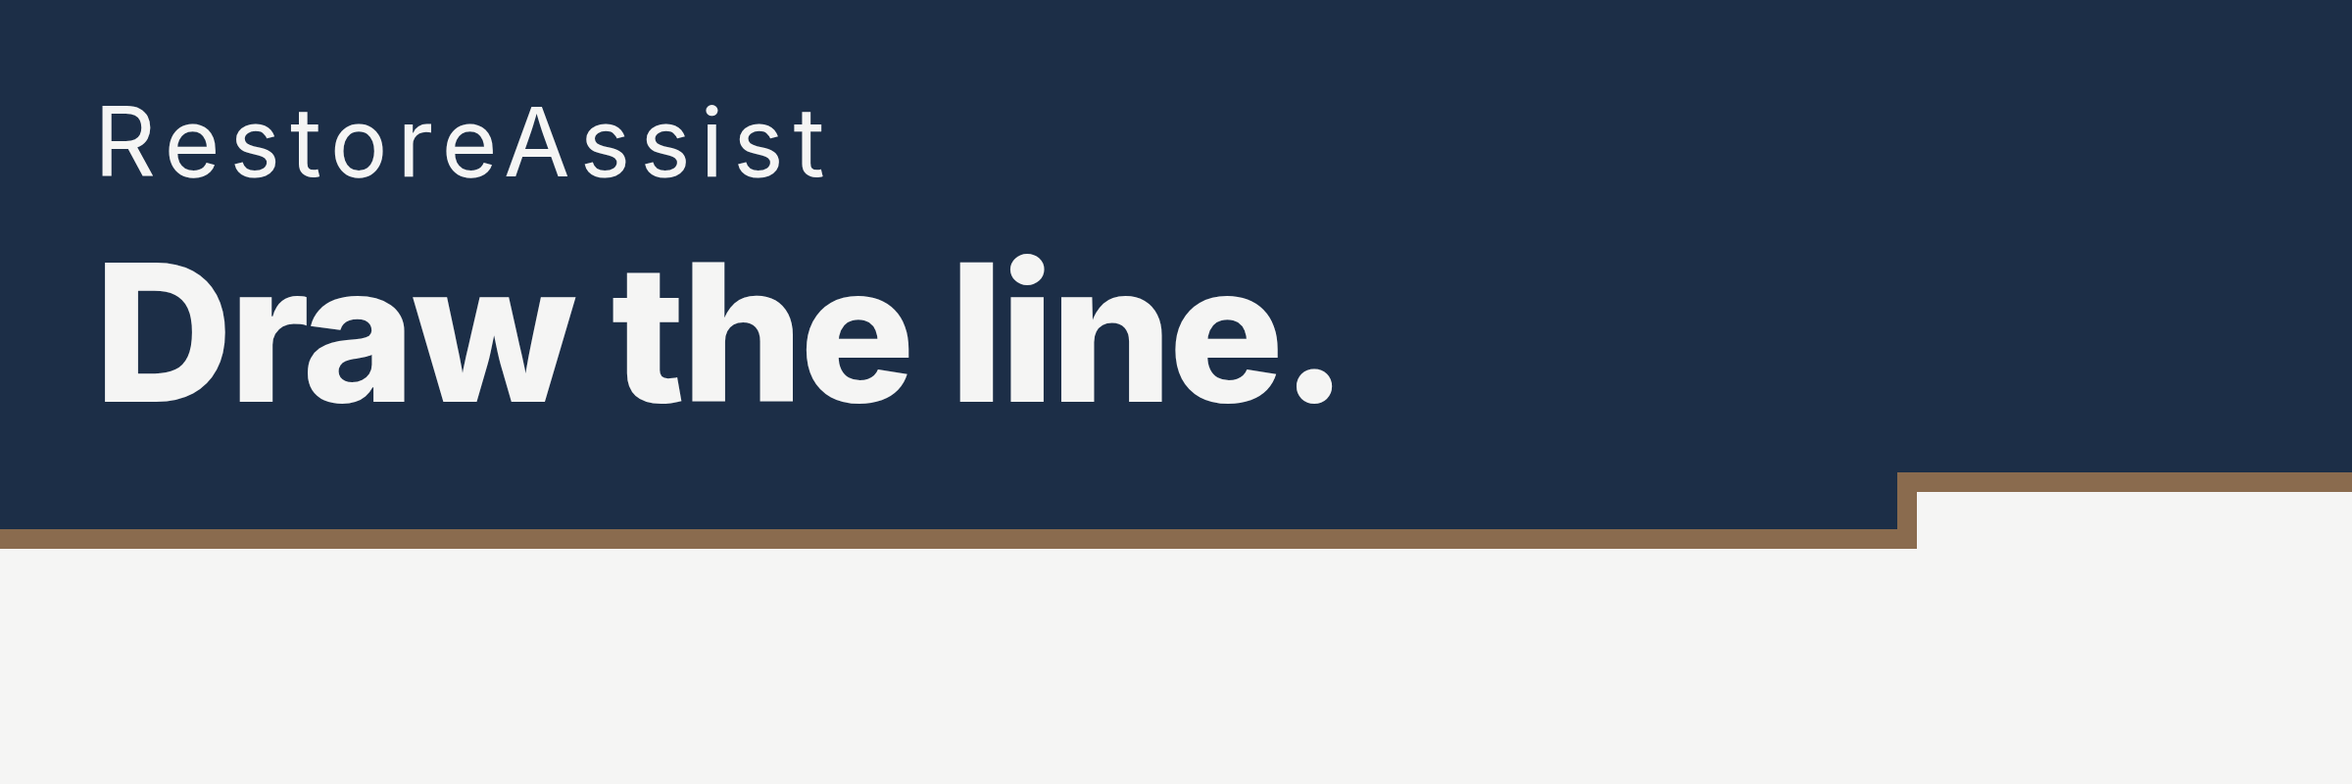
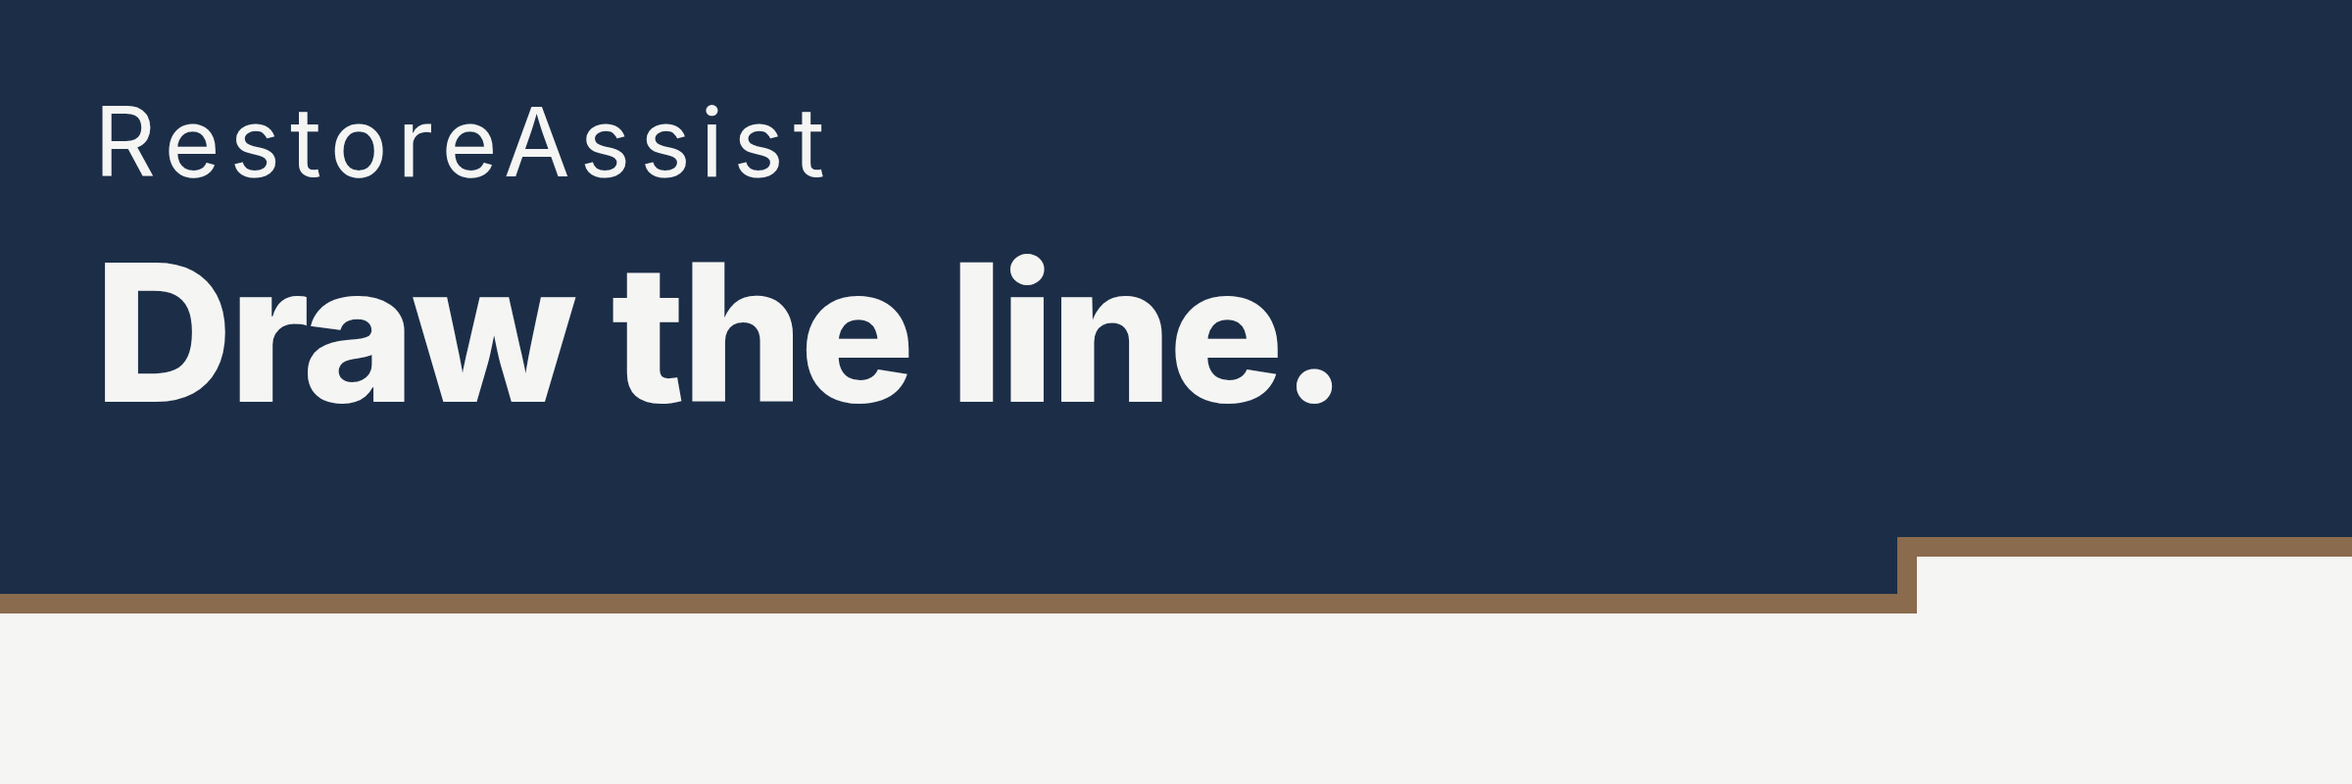
fix(design): size the sweep dry field to its content when it is empty
Found by looking at the rendered funnel PNGs after the lock, not by reading
the template.

The sweep signature drops its locked 59.4% height proportion and sizes the dry
field to its content on portrait boxes, because the proportion was derived on a
1200x627 landscape board and carrying it onto a 3:4 or 9:16 canvas strands the
tape in empty space. But the test was orientation, and the condition that
actually matters is whether the dry field holds anything. The email header
carries no support line and no CTA, so a landscape box with an empty bottom
block kept a proportion derived from a filled one.

On the email header itself the gain is small and worth stating plainly: the
clamp had already pushed the line most of the way, so this moves it 270 -> 303
and the dry field 130px -> 97px. The case the rule guards is a taller landscape
box with an empty bottom — 1600x900 with no support or CTA leaves ~40% of the
canvas holding nothing, which is the stated reason CARSI's `ma` board was
rejected: the lower 45% read as unfinished rather than as intentional negative
space, because nothing weighted was holding the void open.

One condition changes, in the template and in all seven funnel boards that
carry a copy of it. It cannot affect a board whose bottom block has content,
and that is proven rather than asserted: re-rendering all seven formats at
their true logical dimensions changed exactly one PNG, and the locked
[…]

Changed region(s): [[0.0, 0.5938, 1.0, 0.7812]]

diff --git a/docs/marketing-agency/design-runs/ra-job-close-system-2026-08-29-01/funnel/email-header.html b/docs/marketing-agency/design-runs/ra-job-close-system-2026-08-29-01/funnel/email-header.html
@@ -107,6 +107,18 @@ body{background:var(--n50);color:var(--primary);font-family:'RAInter',system-ui,
       to its content, because the locked proportion is a landscape one and
       carrying it onto a 3:4 or 9:16 canvas strands the tape in empty space.
 
+      An EMPTY dry field is the same failure as a portrait one, and the
+      orientation test alone missed it. The 2400x800 email header carries no
+      support line and no CTA, so it took the locked 59.4% and left 40% of the
+      canvas as a light void holding nothing — which is precisely why the CARSI
+      `ma` board was rejected ("the lower 45% reads as unfinished rather than as
+      intentional negative space; ma needs a weighted element holding the void
+      open, and there was none", taste/carsi.md). The condition that matters is
+      whether the dry field has content, not whether the box is portrait, so the
+      content-sized path now also applies whenever the bottom block is empty:
+      the line drops to one clearance above the safe area and the dry field
+      becomes a base rather than a half-canvas void.
+
    4. THE STEP FLATTENS. Below a 24px step depth the notch reads as a rendering
       artefact rather than as a taped mark, so the step is dropped and the line
       runs straight. 24px is 7.2% of 333px, so this is every box under ~333px
@@ -200,7 +212,7 @@ body{background:var(--n50);color:var(--primary);font-family:'RAInter',system-ui,
     // one clearance above the bottom block, the wet field takes the rest, and
     // the composition stays the one that was locked — hook top-left in the wet,
     // tape low, support and CTA in the dry.
-    var lineY = H > W ? maxY : Math.round(H * 0.594);
+    var lineY = (H > W || !botLive) ? maxY : Math.round(H * 0.594);
     lineY = Math.round(Math.min(Math.max(lineY, minY), maxY));
 
     // 4 — the step, and when it flattens.

diff --git a/docs/marketing-agency/design-runs/ra-job-close-system-2026-08-29-01/funnel/landing-hero.html b/docs/marketing-agency/design-runs/ra-job-close-system-2026-08-29-01/funnel/landing-hero.html
@@ -107,6 +107,18 @@ body{background:var(--n50);color:var(--primary);font-family:'RAInter',system-ui,
       to its content, because the locked proportion is a landscape one and
       carrying it onto a 3:4 or 9:16 canvas strands the tape in empty space.
 
+      An EMPTY dry field is the same failure as a portrait one, and the
+      orientation test alone missed it. The 2400x800 email header carries no
+      support line and no CTA, so it took the locked 59.4% and left 40% of the
+      canvas as a light void holding nothing — which is precisely why the CARSI
+      `ma` board was rejected ("the lower 45% reads as unfinished rather than as
+      intentional negative space; ma needs a weighted element holding the void
+      open, and there was none", taste/carsi.md). The condition that matters is
+      whether the dry field has content, not whether the box is portrait, so the
+      content-sized path now also applies whenever the bottom block is empty:
+      the line drops to one clearance above the safe area and the dry field
+      becomes a base rather than a half-canvas void.
+
    4. THE STEP FLATTENS. Below a 24px step depth the notch reads as a rendering
       artefact rather than as a taped mark, so the step is dropped and the line
       runs straight. 24px is 7.2% of 333px, so this is every box under ~333px
@@ -200,7 +212,7 @@ body{background:var(--n50);color:var(--primary);font-family:'RAInter',system-ui,
     // one clearance above the bottom block, the wet field takes the rest, and
     // the composition stays the one that was locked — hook top-left in the wet,
     // tape low, support and CTA in the dry.
-    var lineY = H > W ? maxY : Math.round(H * 0.594);
+    var lineY = (H > W || !botLive) ? maxY : Math.round(H * 0.594);
     lineY = Math.round(Math.min(Math.max(lineY, minY), maxY));
 
     // 4 — the step, and when it flattens.

diff --git a/docs/marketing-agency/design-runs/ra-job-close-system-2026-08-29-01/funnel/og-image.html b/docs/marketing-agency/design-runs/ra-job-close-system-2026-08-29-01/funnel/og-image.html
@@ -107,6 +107,18 @@ body{background:var(--n50);color:var(--primary);font-family:'RAInter',system-ui,
       to its content, because the locked proportion is a landscape one and
       carrying it onto a 3:4 or 9:16 canvas strands the tape in empty space.
 
+      An EMPTY dry field is the same failure as a portrait one, and the
+      orientation test alone missed it. The 2400x800 email header carries no
+      support line and no CTA, so it took the locked 59.4% and left 40% of the
+      canvas as a light void holding nothing — which is precisely why the CARSI
+      `ma` board was rejected ("the lower 45% reads as unfinished rather than as
+      intentional negative space; ma needs a weighted element holding the void
+      open, and there was none", taste/carsi.md). The condition that matters is
+      whether the dry field has content, not whether the box is portrait, so the
+      content-sized path now also applies whenever the bottom block is empty:
+      the line drops to one clearance above the safe area and the dry field
+      becomes a base rather than a half-canvas void.
+
    4. THE STEP FLATTENS. Below a 24px step depth the notch reads as a rendering
       artefact rather than as a taped mark, so the step is dropped and the line
       runs straight. 24px is 7.2% of 333px, so this is every box under ~333px
@@ -200,7 +212,7 @@ body{background:var(--n50);color:var(--primary);font-family:'RAInter',system-ui,
     // one clearance above the bottom block, the wet field takes the rest, and
     // the composition stays the one that was locked — hook top-left in the wet,
     // tape low, support and CTA in the dry.
-    var lineY = H > W ? maxY : Math.round(H * 0.594);
+    var lineY = (H > W || !botLive) ? maxY : Math.round(H * 0.594);
     lineY = Math.round(Math.min(Math.max(lineY, minY), maxY));
 
     // 4 — the step, and when it flattens.

diff --git a/docs/marketing-agency/design-runs/ra-job-close-system-2026-08-29-01/funnel/post-2.html b/docs/marketing-agency/design-runs/ra-job-close-system-2026-08-29-01/funnel/post-2.html
@@ -107,6 +107,18 @@ body{background:var(--n50);color:var(--primary);font-family:'RAInter',system-ui,
       to its content, because the locked proportion is a landscape one and
       carrying it onto a 3:4 or 9:16 canvas strands the tape in empty space.
 
+      An EMPTY dry field is the same failure as a portrait one, and the
+      orientation test alone missed it. The 2400x800 email header carries no
+      support line and no CTA, so it took the locked 59.4% and left 40% of the
+      canvas as a light void holding nothing — which is precisely why the CARSI
+      `ma` board was rejected ("the lower 45% reads as unfinished rather than as
+      intentional negative space; ma needs a weighted element holding the void
+      open, and there was none", taste/carsi.md). The condition that matters is
+      whether the dry field has content, not whether the box is portrait, so the
+      content-sized path now also applies whenever the bottom block is empty:
+      the line drops to one clearance above the safe area and the dry field
+      becomes a base rather than a half-canvas void.
+
    4. THE STEP FLATTENS. Below a 24px step depth the notch reads as a rendering
       artefact rather than as a taped mark, so the step is dropped and the line
       runs straight. 24px is 7.2% of 333px, so this is every box under ~333px
@@ -200,7 +212,7 @@ body{background:var(--n50);color:var(--primary);font-family:'RAInter',system-ui,
     // one clearance above the bottom block, the wet field takes the rest, and
     // the composition stays the one that was locked — hook top-left in the wet,
     // tape low, support and CTA in the dry.
-    var lineY = H > W ? maxY : Math.round(H * 0.594);
+    var lineY = (H > W || !botLive) ? maxY : Math.round(H * 0.594);
     lineY = Math.round(Math.min(Math.max(lineY, minY), maxY));
 
     // 4 — the step, and when it flattens.

diff --git a/docs/marketing-agency/design-runs/ra-job-close-system-2026-08-29-01/funnel/post-3.html b/docs/marketing-agency/design-runs/ra-job-close-system-2026-08-29-01/funnel/post-3.html
@@ -107,6 +107,18 @@ body{background:var(--n50);color:var(--primary);font-family:'RAInter',system-ui,
       to its content, because the locked proportion is a landscape one and
       carrying it onto a 3:4 or 9:16 canvas strands the tape in empty space.
 
+      An EMPTY dry field is the same failure as a portrait one, and the
+      orientation test alone missed it. The 2400x800 email header carries no
+      support line and no CTA, so it took the locked 59.4% and left 40% of the
+      canvas as a light void holding nothing — which is precisely why the CARSI
+      `ma` board was rejected ("the lower 45% reads as unfinished rather than as
+      intentional negative space; ma needs a weighted element holding the void
+      open, and there was none", taste/carsi.md). The condition that matters is
+      whether the dry field has content, not whether the box is portrait, so the
+      content-sized path now also applies whenever the bottom block is empty:
+      the line drops to one clearance above the safe area and the dry field
+      becomes a base rather than a half-canvas void.
+
    4. THE STEP FLATTENS. Below a 24px step depth the notch reads as a rendering
       artefact rather than as a taped mark, so the step is dropped and the line
       runs straight. 24px is 7.2% of 333px, so this is every box under ~333px
@@ -200,7 +212,7 @@ body{background:var(--n50);color:var(--primary);font-family:'RAInter',system-ui,
     // one clearance above the bottom block, the wet field takes the rest, and
     // the composition stays the one that was locked — hook top-left in the wet,
     // tape low, support and CTA in the dry.
-    var lineY = H > W ? maxY : Math.round(H * 0.594);
+    var lineY = (H > W || !botLive) ? maxY : Math.round(H * 0.594);
     lineY = Math.round(Math.min(Math.max(lineY, minY), maxY));
 
     // 4 — the step, and when it flattens.

diff --git a/docs/marketing-agency/design-runs/ra-job-close-system-2026-08-29-01/funnel/post-4.html b/docs/marketing-agency/design-runs/ra-job-close-system-2026-08-29-01/funnel/post-4.html
@@ -107,6 +107,18 @@ body{background:var(--n50);color:var(--primary);font-family:'RAInter',system-ui,
       to its content, because the locked proportion is a landscape one and
       carrying it onto a 3:4 or 9:16 canvas strands the tape in empty space.
 
+      An EMPTY dry field is the same failure as a portrait one, and the
+      orientation test alone missed it. The 2400x800 email header carries no
+      support line and no CTA, so it took the locked 59.4% and left 40% of the
+      canvas as a light void holding nothing — which is precisely why the CARSI
+      `ma` board was rejected ("the lower 45% reads as unfinished rather than as
+      intentional negative space; ma needs a weighted element holding the void
+      open, and there was none", taste/carsi.md). The condition that matters is
+      whether the dry field has content, not whether the box is portrait, so the
+      content-sized path now also applies whenever the bottom block is empty:
+      the line drops to one clearance above the safe area and the dry field
+      becomes a base rather than a half-canvas void.
+
    4. THE STEP FLATTENS. Below a 24px step depth the notch reads as a rendering
       artefact rather than as a taped mark, so the step is dropped and the line
       runs straight. 24px is 7.2% of 333px, so this is every box under ~333px
@@ -200,7 +212,7 @@ body{background:var(--n50);color:var(--primary);font-family:'RAInter',system-ui,
     // one clearance above the bottom block, the wet field takes the rest, and
     // the composition stays the one that was locked — hook top-left in the wet,
     // tape low, support and CTA in the dry.
-    var lineY = H > W ? maxY : Math.round(H * 0.594);
+    var lineY = (H > W || !botLive) ? maxY : Math.round(H * 0.594);
     lineY = Math.round(Math.min(Math.max(lineY, minY), maxY));
 
     // 4 — the step, and when it flattens.

diff --git a/docs/marketing-agency/design-runs/ra-job-close-system-2026-08-29-01/funnel/story.html b/docs/marketing-agency/design-runs/ra-job-close-system-2026-08-29-01/funnel/story.html
@@ -107,6 +107,18 @@ body{background:var(--n50);color:var(--primary);font-family:'RAInter',system-ui,
       to its content, because the locked proportion is a landscape one and
       carrying it onto a 3:4 or 9:16 canvas strands the tape in empty space.
 
+      An EMPTY dry field is the same failure as a portrait one, and the
+      orientation test alone missed it. The 2400x800 email header carries no
+      support line and no CTA, so it took the locked 59.4% and left 40% of the
+      canvas as a light void holding nothing — which is precisely why the CARSI
+      `ma` board was rejected ("the lower 45% reads as unfinished rather than as
+      intentional negative space; ma needs a weighted element holding the void
+      open, and there was none", taste/carsi.md). The condition that matters is
+      whether the dry field has content, not whether the box is portrait, so the
+      content-sized path now also applies whenever the bottom block is empty:
+      the line drops to one clearance above the safe area and the dry field
+      becomes a base rather than a half-canvas void.
+
    4. THE STEP FLATTENS. Below a 24px step depth the notch reads as a rendering
       artefact rather than as a taped mark, so the step is dropped and the line
       runs straight. 24px is 7.2% of 333px, so this is every box under ~333px
@@ -200,7 +212,7 @@ body{background:var(--n50);color:var(--primary);font-family:'RAInter',system-ui,
     // one clearance above the bottom block, the wet field takes the rest, and
     // the composition stays the one that was locked — hook top-left in the wet,
     // tape low, support and CTA in the dry.
-    var lineY = H > W ? maxY : Math.round(H * 0.594);
+    var lineY = (H > W || !botLive) ? maxY : Math.round(H * 0.594);
     lineY = Math.round(Math.min(Math.max(lineY, minY), maxY));
 
     // 4 — the step, and when it flattens.

diff --git a/docs/marketing-agency/design-runs/templates/ra/sweep.html b/docs/marketing-agency/design-runs/templates/ra/sweep.html
@@ -107,6 +107,18 @@ body{background:var(--n50);color:var(--primary);font-family:'RAInter',system-ui,
       to its content, because the locked proportion is a landscape one and
       carrying it onto a 3:4 or 9:16 canvas strands the tape in empty space.
 
+      An EMPTY dry field is the same failure as a portrait one, and the
+      orientation test alone missed it. The 2400x800 email header carries no
+      support line and no CTA, so it took the locked 59.4% and left 40% of the
+      canvas as a light void holding nothing — which is precisely why the CARSI
+      `ma` board was rejected ("the lower 45% reads as unfinished rather than as
+      intentional negative space; ma needs a weighted element holding the void
+      open, and there was none", taste/carsi.md). The condition that matters is
+      whether the dry field has content, not whether the box is portrait, so the
+      content-sized path now also applies whenever the bottom block is empty:
+      the line drops to one clearance above the safe area and the dry field
+      becomes a base rather than a half-canvas void.
+
    4. THE STEP FLATTENS. Below a 24px step depth the notch reads as a rendering
       artefact rather than as a taped mark, so the step is dropped and the line
       runs straight. 24px is 7.2% of 333px, so this is every box under ~333px
@@ -200,7 +212,7 @@ body{background:var(--n50);color:var(--primary);font-family:'RAInter',system-ui,
     // one clearance above the bottom block, the wet field takes the rest, and
     // the composition stays the one that was locked — hook top-left in the wet,
     // tape low, support and CTA in the dry.
-    var lineY = H > W ? maxY : Math.round(H * 0.594);
+    var lineY = (H > W || !botLive) ? maxY : Math.round(H * 0.594);
     lineY = Math.round(Math.min(Math.max(lineY, minY), maxY));
 
     // 4 — the step, and when it flattens.

diff --git a/docs/marketing-agency/design-runs/taste/ra.md b/docs/marketing-agency/design-runs/taste/ra.md
@@ -27,3 +27,5 @@ decision and never substitutes for one.
 2026-08-29 · CONSTRAINT · `ra-job-close-system-2026-08-29-01` · **A locked proportion is a proportion of the box it was locked in — check which axis it belongs to before carrying it.** The `sweep` line sits at 59.4% of height, locked on a 1200×627 landscape board. Carried literally onto the 1080×1440 and 1080×1920 funnel formats it stranded the tape in the middle of an empty light field with the support and CTA marooned ~400px below it — two competing voids with the message squeezed between them. Fixed by sizing the dry field to its content on any portrait box, so the tape sits one clearance above the bottom block and the wet field takes the rest. Only visible because §13 step 4 renders every funnel format and looks at it.
 
 2026-08-29 · CONSTRAINT · `ra-job-close-system-2026-08-29-01` · **Where a run's prose and its board disagree about the signature, the pixels are the record.** `manifest.json` and `v3/tokens.json` describe the step riser as standing "one 56px gutter clear of the hook's longest line rather than at a fixed column"; the board's own source comment says "80.7% of width". Measured: the hook ends at x=802.4 and the riser is at 968, so 56px was the _constraint the column was checked against_, never the placement. Building the template from the prose alone would have moved the riser to 858 and silently broken the locked artefact. The template now applies the column first and the gutter as an override, and reproduces the lock byte-identically.
+
+2026-08-29 · CONSTRAINT · `ra-job-close-system-2026-08-29-01` · **An empty dry field is the same failure as a portrait one — size the field to its content whenever it is empty, whatever the box's orientation.** The `sweep` template dropped the locked 59.4% proportion and sized the dry field to its content on portrait boxes only. But the condition that actually matters is whether the field holds anything: the 2400×800 email header carries no support line and no CTA, and a landscape box with an empty bottom block kept a proportion derived from a filled one. On the email header the clamp had already pushed the line most of the way (270 → 303, dry field 130px → 97px), so the visible gain there is small; the case the rule guards is a taller landscape box with an empty bottom, where the proportional placement leaves ~40% of the canvas holding nothing — which is the stated reason CARSI's `ma` board was rejected ("the lower 45% reads as unfinished rather than as intentional negative space", `taste/carsi.md`). Found by looking at the rendered funnel PNGs after the lock, not by reading the template.

diff --git a/docs/marketing-agency/design-runs/ra-job-close-system-2026-08-29-01/README.md b/docs/marketing-agency/design-runs/ra-job-close-system-2026-08-29-01/README.md
@@ -62,7 +62,7 @@ described.
 | post-2/3/4    | 1080×1440 | 1232   | 104  | 871   | portrait — dry field sized to content                  |
 | story         | 1080×1920 | 1605   | 138  | 871   | portrait, plus §11's centre-1610 story safe area (155) |
 | og-image      | 1200×630  | 374    | 45   | 968   | proportional                                           |
-| email-header  | 1200×400  | 270    | 29   | 968   | line pushed down to clear the hook                     |
+| email-header  | 1200×400  | 303    | 29   | 968   | empty dry field — line sized to content, not 59.4%     |
 
 Three findings came out of rendering these rather than reasoning about them.
 
@@ -99,9 +99,16 @@ at 600×300, which renders a straight full-bleed line with no riser.
   hook and the line. It reads as deliberate negative space rather than an error,
   but it is the weakest board in the suite and the one to revisit first if a
   story is actually needed.
-- The **email header**'s dry field is empty below the line. That is faithful to
-  the concept — the dry side is the side with nothing on it — and it sits above
-  light email body content, but it is 130px of nothing in a 400px banner.
+- The **email header**'s dry field is empty below the line — faithful to the
+  concept, since the dry side is the side with nothing on it, and it sits above
+  light email body content. It was 130px of nothing in a 400px banner; the
+  content-sizing rule now also fires on a landscape box with an empty bottom
+  block, which takes it to 97px. The rule matters more than this 33px: the
+  orientation test alone let a landscape board keep a proportion derived from a
+  filled dry field, and on a taller box — 1600×900 with no support or CTA — that
+  leaves ~40% of the canvas holding nothing, which is exactly why CARSI's `ma`
+  board was rejected. Only visible because §13 step 4 renders every format and
+  looks at it.
 - The stage-1 critique's own note stands: at LinkedIn mobile scale the 10px
   riser renders about 3px and the step reads as a soft jog rather than a taped
   mark. Nothing in this lock addressed that.
